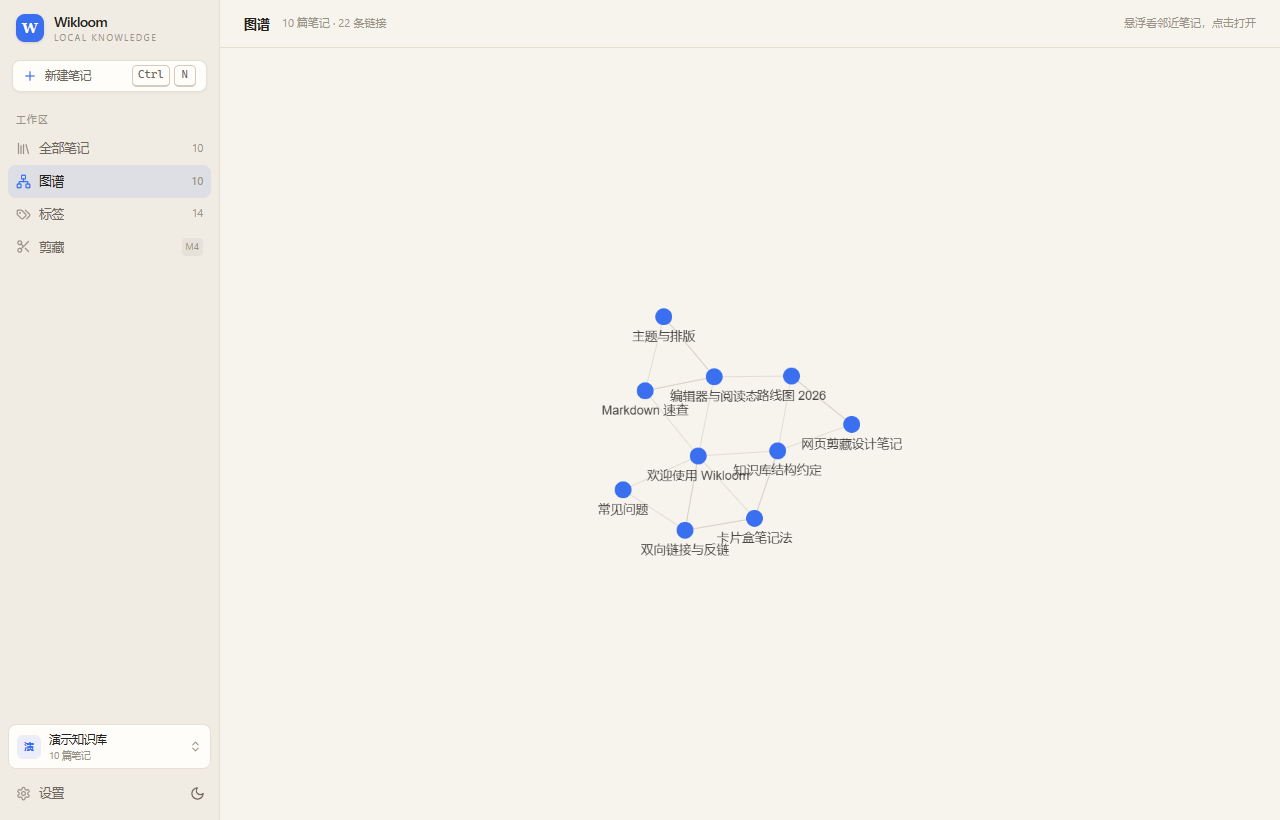
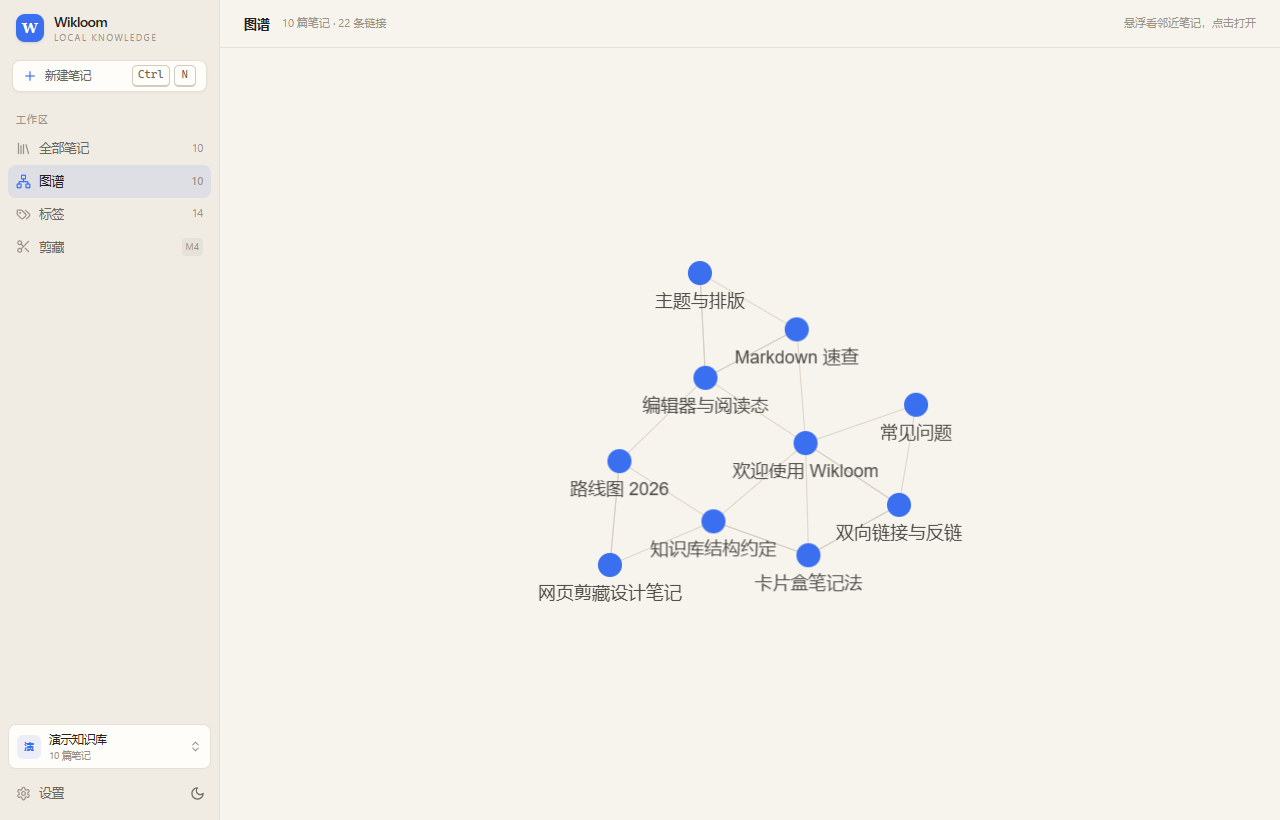
feat: 图谱 S7 修孤立节点坐标系，版本升至 0.5.0

Changed region(s): [[0.4062, 0.4878, 0.75, 0.7317], [0.4688, 0.3049, 0.6875, 0.5183]]

diff --git a/src/features/graph/placeNodes.test.ts b/src/features/graph/placeNodes.test.ts
@@ -19,7 +19,7 @@ function graph(nodes: string[], edges: Array<[string, string]> = []): GraphData 
   };
 }
 
-const viewport = { width: 1000, height: 800 };
+const center = { x: 500, y: 400 };
 
 describe("planNodePositions", () => {
   it("keeps every existing node exactly where it was", () => {
@@ -31,7 +31,7 @@ describe("planNodePositions", () => {
     const positions = planNodePositions({
       graph: graph(["a", "b"], [["a", "b"]]),
       previous,
-      viewport,
+      center,
     });
 
     expect(positions.get("a")).toEqual({ x: 10, y: 20 });
@@ -47,7 +47,7 @@ describe("planNodePositions", () => {
     const positions = planNodePositions({
       graph: graph(["a"]),
       previous,
-      viewport,
+      center,
     });
 
     expect(positions.has("a")).toBe(true);
@@ -66,7 +66,7 @@ describe("planNodePositions", () => {
         ["c", "b"],
       ]),
       previous,
-      viewport,
+      center,
     });
 
     expect(positions.get("c")).toEqual({ x: 50, y: 100 });
@@ -76,7 +76,7 @@ describe("planNodePositions", () => {
     const positions = planNodePositions({
       graph: graph(["a", "b"], [["a", "b"]]),
       previous: new Map([["a", { x: 0, y: 0 }]]),
-      viewport,
+      center,
     });
 
     const point = positions.get("b")!;
@@ -85,14 +85,27 @@ describe("planNodePositions", () => {
     expect(distance).toBeLessThan(50);
   });
 
-  it("spreads isolated new nodes around the viewport centre", () => {
+  it("treats the centre as model coordinates, not pixels", () => {
+    const modelCenter = { x: -300, y: 150 };
+    const positions = planNodePositions({
+      graph: graph(["a"]),
+      previous: new Map(),
+      center: modelCenter,
+    });
+
+    const point = positions.get("a")!;
+    expect(
+      Math.hypot(point.x - modelCenter.x, point.y - modelCenter.y),
+    ).toBeLessThan(200);
+  });
+
+  it("spreads isolated new nodes around the given model-space centre", () => {
     const positions = planNodePositions({
       graph: graph(["a", "b", "c"]),
       previous: new Map(),
-      viewport,
+      center,
     });
 
-    const center = { x: 500, y: 400 };
     const points = ["a", "b", "c"].map((id) => positions.get(id)!);
     for (const point of points) {
       const distance = Math.hypot(point.x - center.x, point.y - center.y);

diff --git a/src/features/graph/placeNodes.ts b/src/features/graph/placeNodes.ts
@@ -7,10 +7,10 @@ export interface GraphPoint {
 
 export interface PlanPositionsInput {
   graph: GraphData;
-  /** 上一次已经摆放好的坐标，按 note.id 索引。 */
+  /** 上一次已经摆放好的坐标，按 note.id 索引（cytoscape model 坐标）。 */
   previous: Map<string, GraphPoint>;
-  /** 画布可视区域，用来给没有邻居的新节点兜底定位。 */
-  viewport: { width: number; height: number };
+  /** 视口中心，必须是 model 坐标：调用方用 (像素中心 − pan) / zoom 换算。 */
+  center: GraphPoint;
 }
 
 const GOLDEN_ANGLE = Math.PI * (3 - Math.sqrt(5));
@@ -19,14 +19,14 @@ const GOLDEN_ANGLE = Math.PI * (3 - Math.sqrt(5));
  * 计算下一次渲染的节点坐标：已存在节点冻结，只给新节点找位置。
  *
  * - 已有 id：原样返回 previous 的坐标，绝不重排（图页面内不漂移）。
- * - 新节点：优先放在「已定位邻居」的平均位置；没有邻居则围绕视口中心按黄金角散开，
- *   避免多个孤立新节点叠在同一点。
+ * - 新节点：优先放在「已定位邻居」的平均位置；没有邻居则围绕 center（model 坐标）按黄金角散开，
+ *   避免多个孤立新节点叠在同一点、也避免把像素坐标当 model 坐标导致落到视口外。
  * - 已经从图里消失的 id 丢弃。
  */
 export function planNodePositions({
   graph,
   previous,
-  viewport,
+  center,
 }: PlanPositionsInput): Map<string, GraphPoint> {
   const positions = new Map<string, GraphPoint>();
 
@@ -38,7 +38,6 @@ export function planNodePositions({
     neighbors.get(edge.target)!.push(edge.source);
   }
 
-  const center = { x: viewport.width / 2, y: viewport.height / 2 };
   let newIndex = 0;
 
   for (const node of graph.nodes) {

diff --git a/src/features/graph/GraphCanvas.tsx b/src/features/graph/GraphCanvas.tsx
@@ -175,14 +175,18 @@ export function GraphCanvas({ data, theme, onOpenNote }: GraphCanvasProps) {
     container.style.position = "relative";
     container.style.backgroundColor = palette.background;
 
-    const viewport = {
-      width: container.clientWidth || 800,
-      height: container.clientHeight || 600,
+    const previousViewport = viewportRef.current;
+    const zoom = previousViewport?.zoom ?? 1;
+    const pan = previousViewport?.pan ?? { x: 0, y: 0 };
+    // 纯函数吃 model 坐标：像素中心 → (像素中心 − pan) / zoom。
+    const center = {
+      x: ((container.clientWidth || 800) / 2 - pan.x) / zoom,
+      y: ((container.clientHeight || 600) / 2 - pan.y) / zoom,
     };
     const planned = planNodePositions({
       graph: data,
       previous: positionsRef.current,
-      viewport,
+      center,
     });
 
     const elements = buildElements(data);

diff --git a/src/features/settings/SettingsPage.tsx b/src/features/settings/SettingsPage.tsx
@@ -266,7 +266,7 @@ export function SettingsPage() {
           <Panel title="关于">
             <dl className="grid grid-cols-[88px_1fr] gap-x-4 gap-y-2.5 text-[11.5px]">
               <dt className="text-faint">版本</dt>
-              <dd className="text-ink">v0.4.2</dd>
+              <dd className="text-ink">v0.5.0</dd>
               <dt className="text-faint">技术栈</dt>
               <dd className="text-ink">
                 React 19 · Tauri 2 · Tailwind CSS 4 · CodeMirror 6
